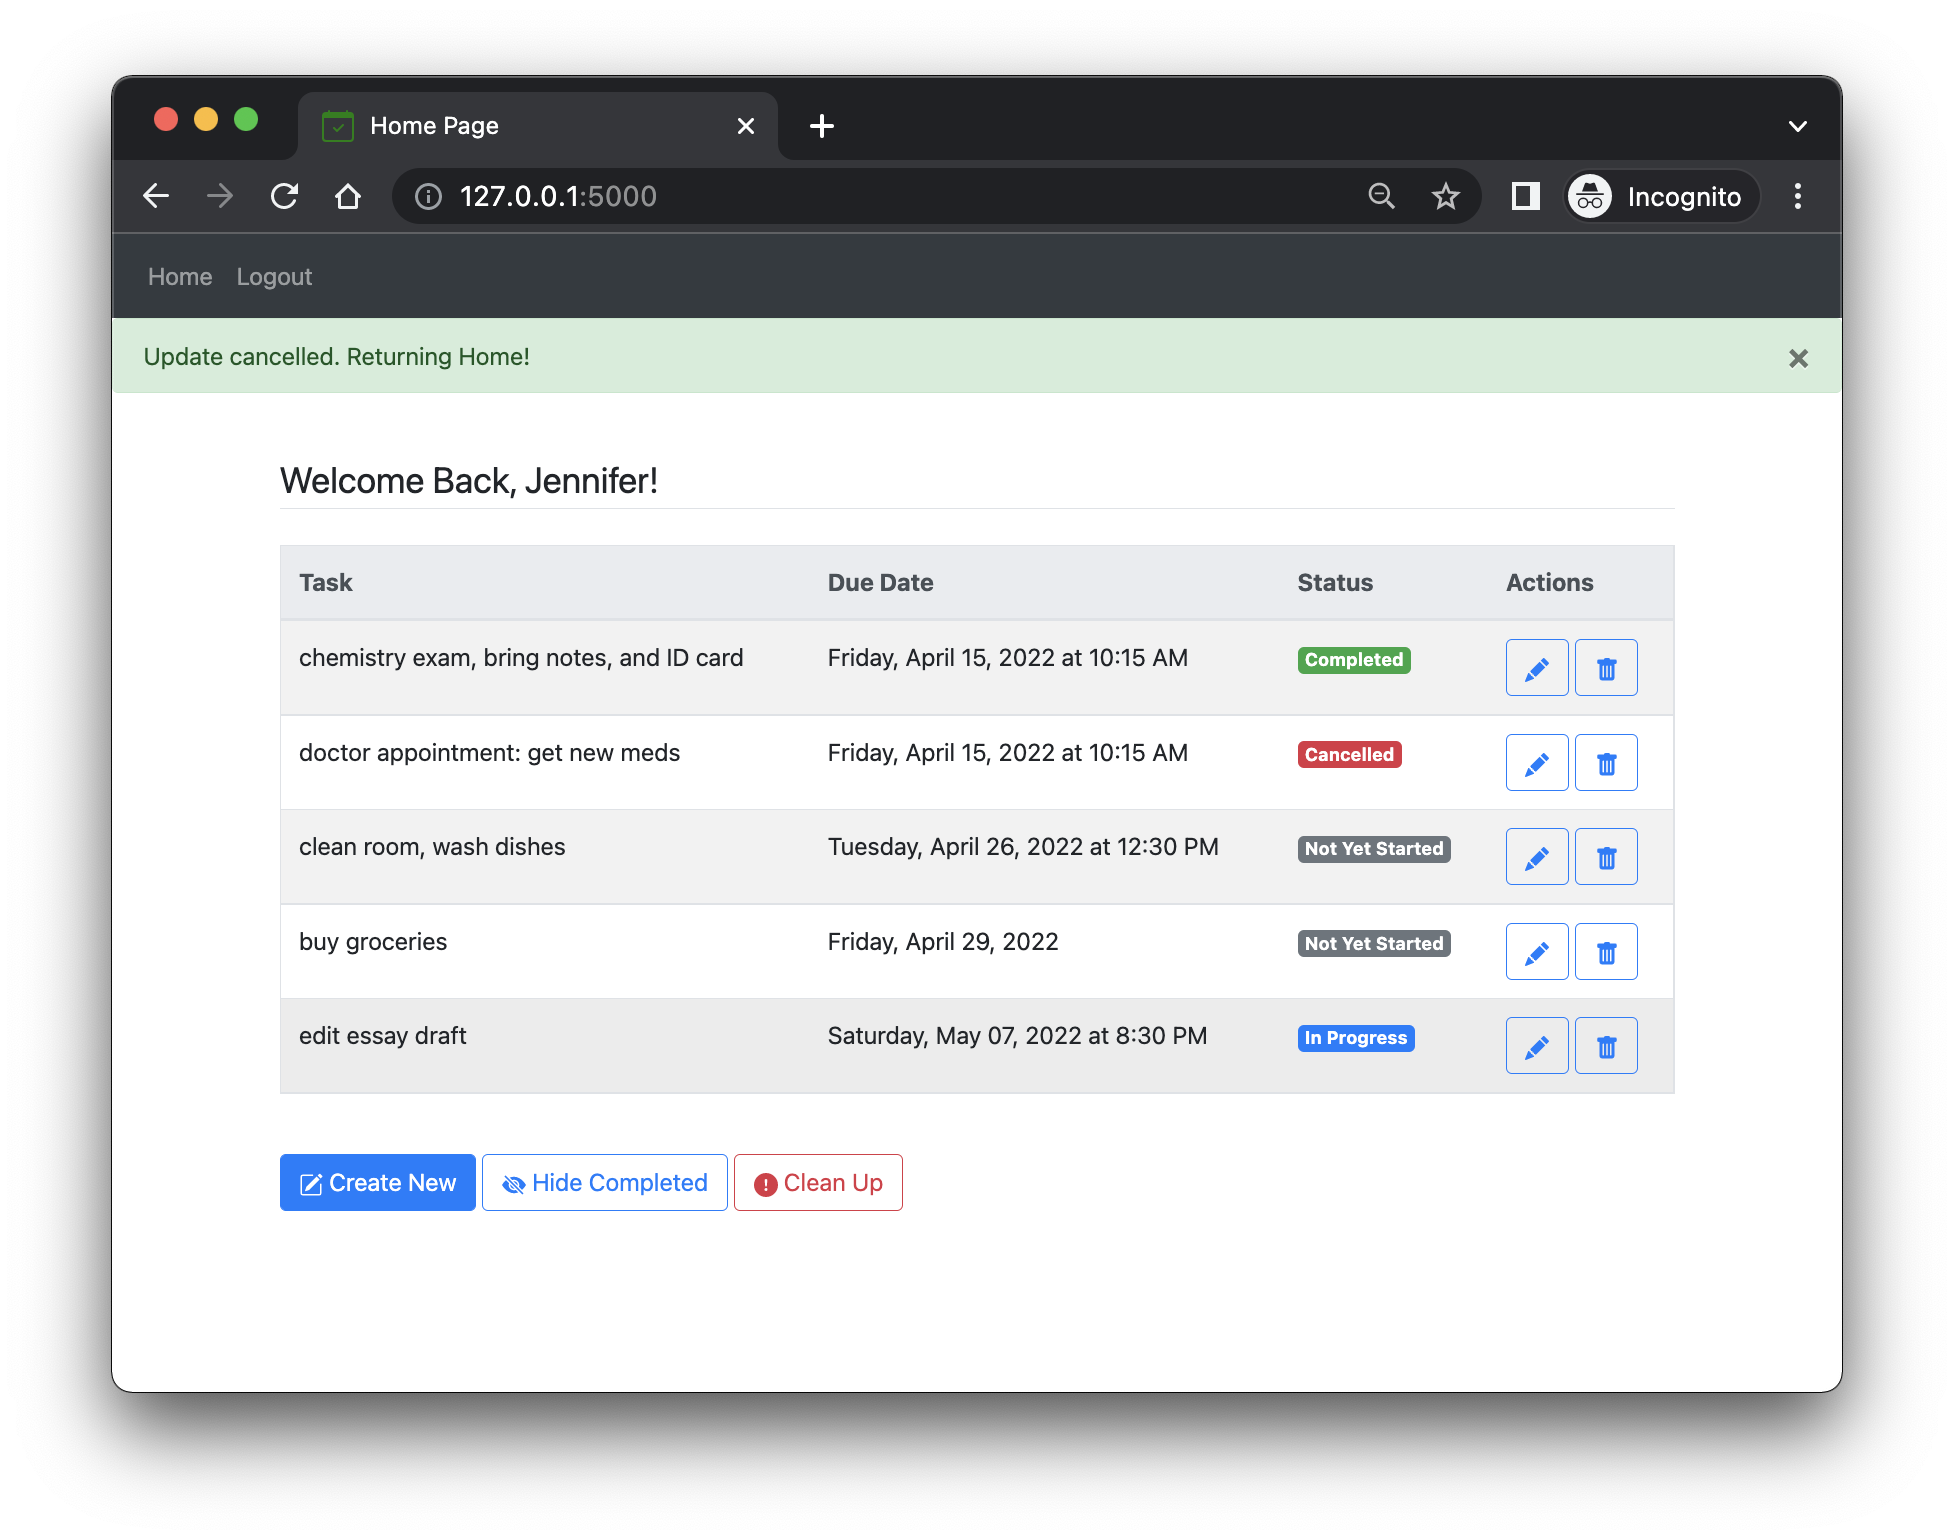
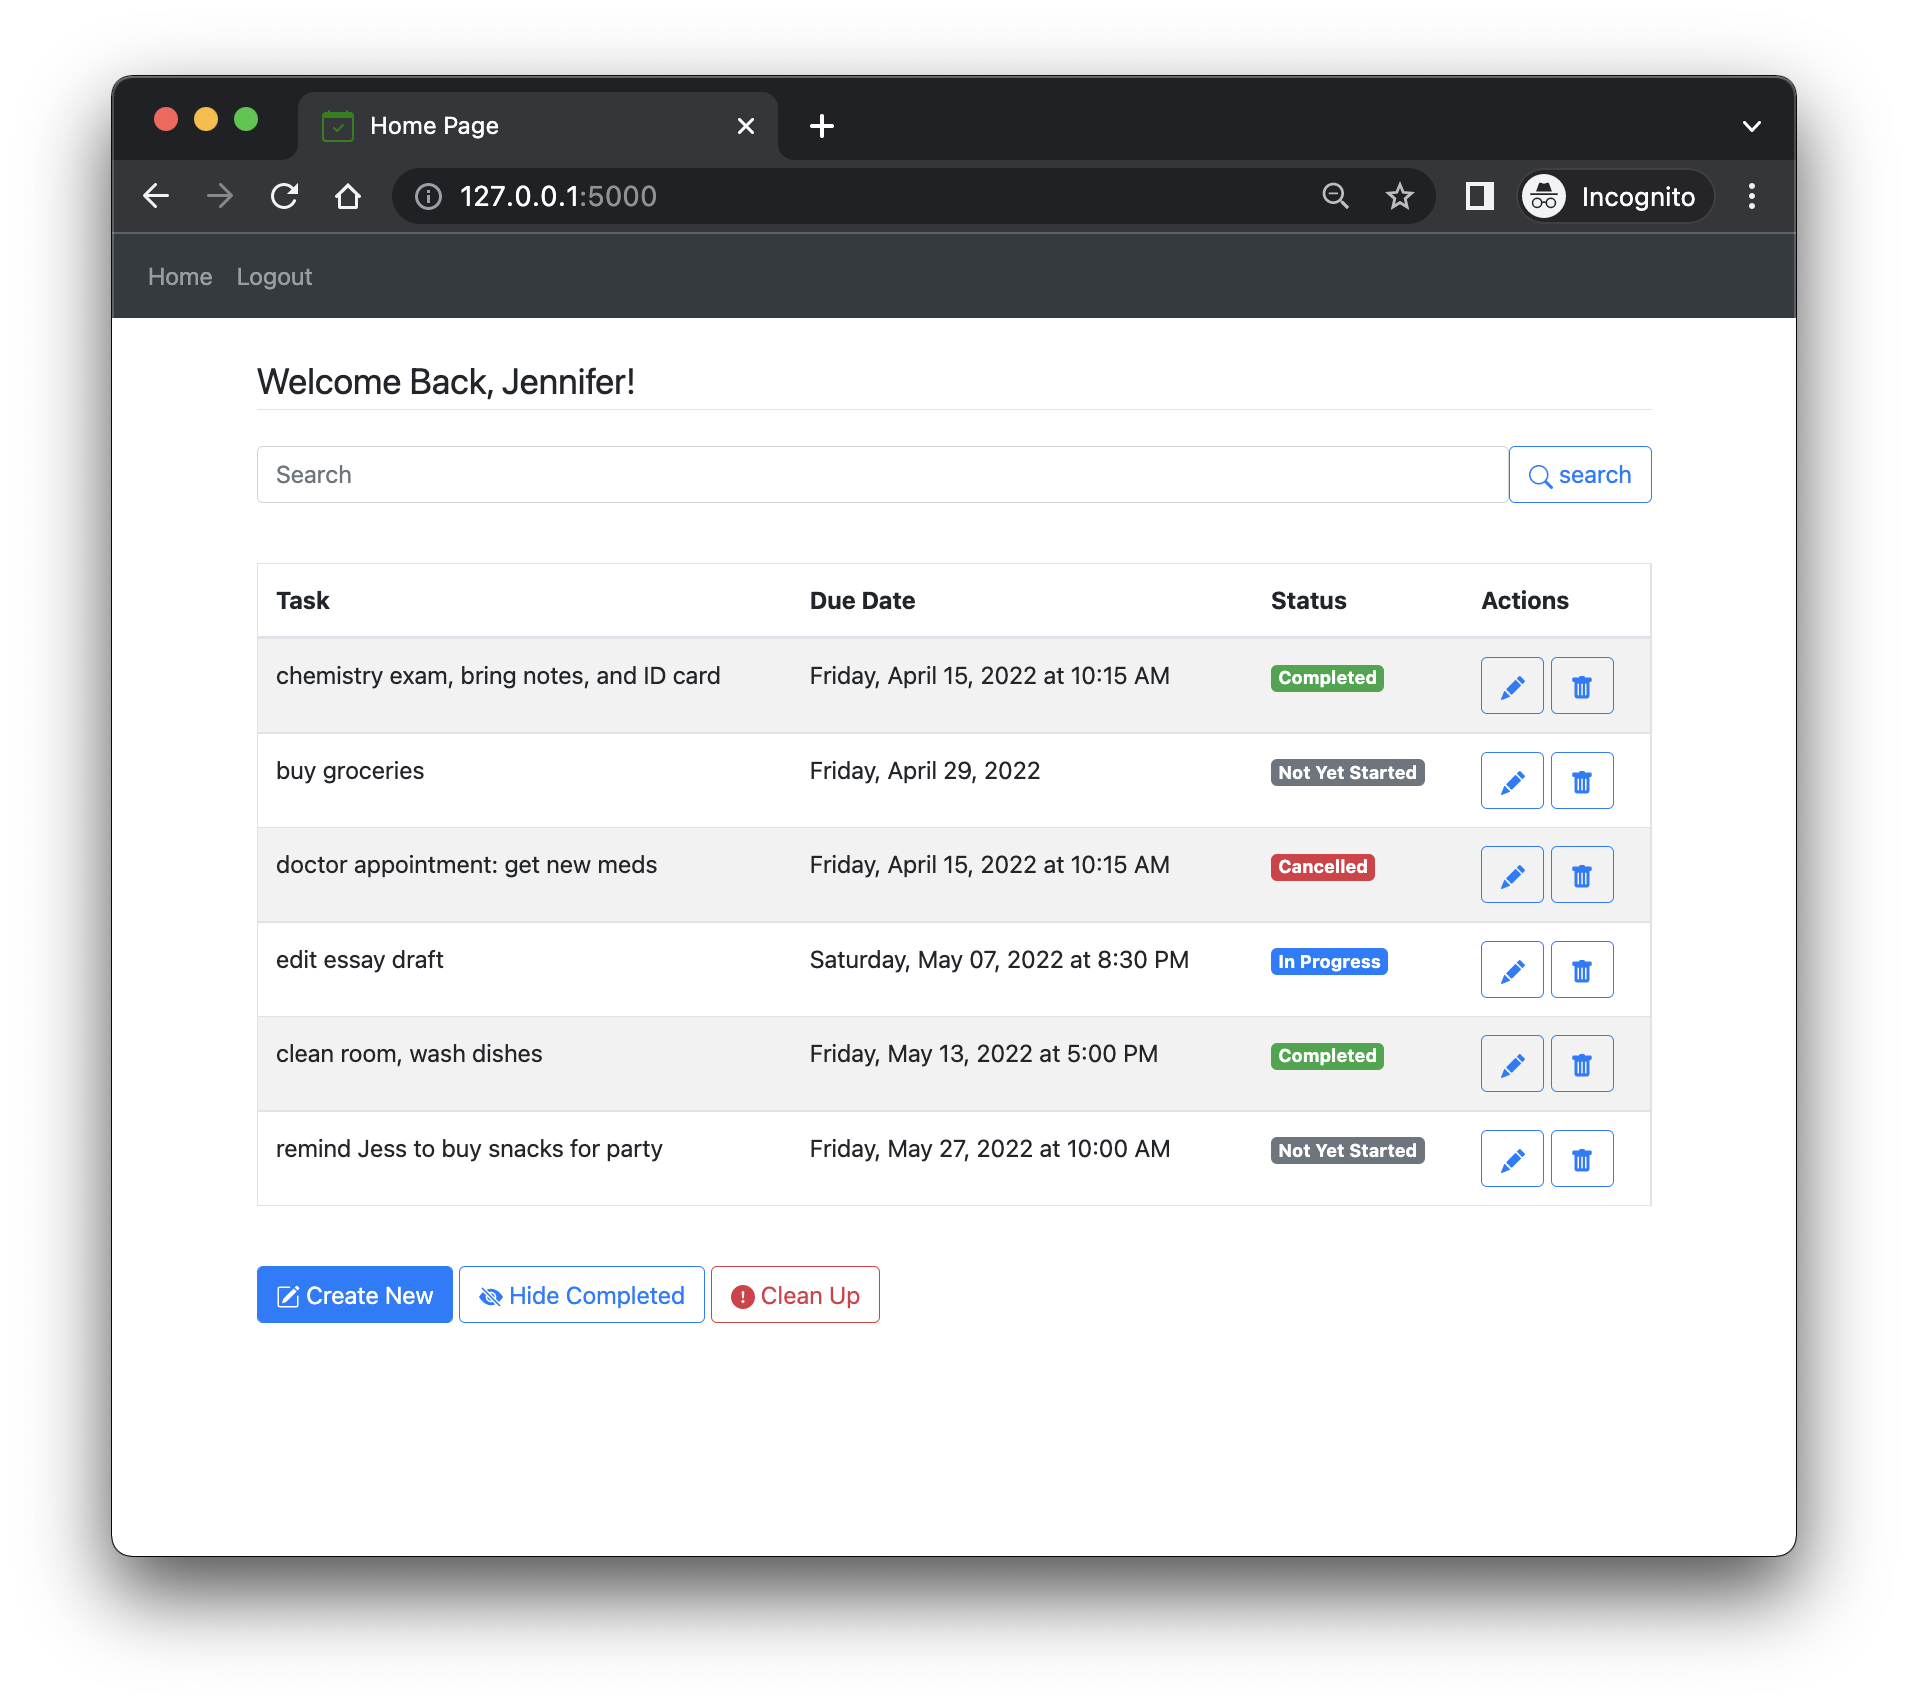
added searchbar

diff --git a/website/templates/home.html b/website/templates/home.html
@@ -9,10 +9,39 @@
   <legend class="border-bottom mb-4">Welcome Back, {{ user.first_name }}!</legend>
 
   {% if tasks|length < 1 %}
-    <p> There are no tasks! </p>
-  {% else %}
+    {% if isQuery %}
+      <div class="alert alert-secondary" role="alert">
+        <b>No Matching Tasks!</b> 
+        <hr>
+        Try something else? Or hit <b>'search'</b> to display all tasks.
+      </div>
+    {% else %}
+      <div class="alert alert-secondary" role="alert">
+        You have no tasks; create one below!
+      </div>
+    {% endif %}
+  {% endif %}
+
+  <form method="POST">
+    <div class="form-group input-group">
+      <input type="search" id="Query" name="Query" class="button form-control rounded" placeholder="Search" aria-label="Search" aria-describedby="search-addon" />
+      <button 
+        type="submit" 
+        class="btn btn-outline-primary"
+        name="action" 
+        value="Search"
+      >
+        <svg xmlns="http://www.w3.org/2000/svg" width="16" height="16" fill="currentColor" class="bi bi-search" viewBox="0 0 16 16">
+        <path d="M11.742 10.344a6.5 6.5 0 1 0-1.397 1.398h-.001c.03.04.062.078.098.115l3.85 3.85a1 1 0 0 0 1.415-1.414l-3.85-3.85a1.007 1.007 0 0 0-.115-.1zM12 6.5a5.5 5.5 0 1 1-11 0 5.5 5.5 0 0 1 11 0z"/>
+        </svg> search</button>
+    </div>
+    </form>
+    
+    <br>
+
+    {% if tasks|length >= 1%}
     <table id="tasksTable" class="border table table-striped table-hover">
-      <thead class="thead-light">
+      <thead>
       <tr> 
         <th> Task </th>
         <th> Due Date </th>
@@ -67,7 +96,7 @@
         {% endfor %}
       </tbody>
     </table>
-  {% endif %}
+    {% endif %}
 
   <br>
 

diff --git a/website/views.py b/website/views.py
@@ -14,13 +14,21 @@ views = Blueprint('views', __name__)
 @login_required
 def home():
     if request.method == 'POST':
+        # Search Bar
+        if request.form['action'] == 'Search':
+            print('search!')
+            user_query = request.form['Query']
+            results = Task.query.filter_by(user_id=current_user.id). \
+                                            filter(Task.content.contains(user_query)).all()
+            return render_template('home.html', user=current_user, tasks=results, isQuery=True)
+
         # Optionally hide Completed Tasks
         if request.form['action'] == 'Hide Completed Tasks':
             tasks = Task.query.filter_by(user_id=current_user.id). \
                                     filter(Task.status != 'Completed'). \
                                         order_by(Task.due_date).all()
             flash('Completed Tasks Hidden!', category='success')
-            return render_template('home.html', user=current_user, tasks=tasks)
+            return render_template('home.html', user=current_user, tasks=tasks, isQuery=False)
 
         # Optionally delete all Completed and Cancelled Tasks
         if request.form['action'] == 'Clean Up':
@@ -33,7 +41,7 @@ def home():
             flash('Completed and Cancelled Tasks Deleted!', category='success')
             remaining_tasks = Task.query.filter_by(user_id=current_user.id). \
                                                     order_by(Task.due_date_int).all()
-            return render_template('home.html', user=current_user, tasks=remaining_tasks)
+            return render_template('home.html', user=current_user, tasks=remaining_tasks, isQuery=False)
         
         elif request.form['action'] == "Create New":
             return redirect('/create')
@@ -41,7 +49,7 @@ def home():
     # default action: display all tasks 
     tasks = Task.query.filter_by(user_id=current_user.id). \
                                 order_by(Task.due_date_int, Task.time).all() 
-    return render_template('home.html', user=current_user, tasks=tasks)
+    return render_template('home.html', user=current_user, tasks=tasks, isQuery=False)
 
 
 

diff --git a/README.md b/README.md
@@ -2,7 +2,7 @@
 > Written in Python3 using Flask, HTML, Bootstrap, and Jinja. Database management through SQLAlchemy and SQLite.
 
 ## Project Overview
-A dynamic Flask web application using Python3 and HTML that allows users to create, track, modify, and delete schedulable tasks while handling user authentication (login, logout, and registration). 
+A dynamic Flask web application using Python3 and HTML that allows users to create, modify, search, and delete schedulable tasks while handling user authentication (login, logout, and registration). 
 
 ### Features
 * Web pages rendered with Jinja templating and styled with Bootstrap.
